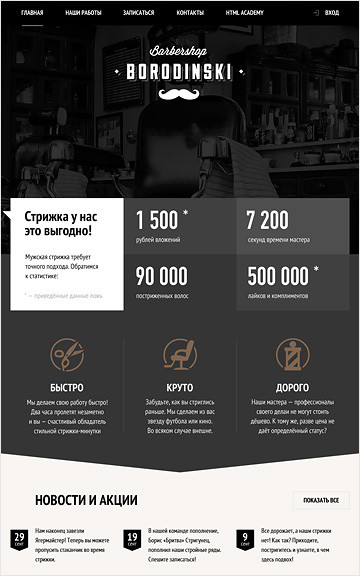
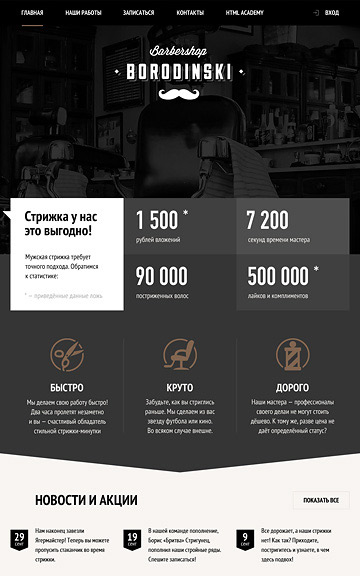
все, больше ничего не могу

Changed region(s): [[0.9778, 0.0, 1.0, 0.7812], [0.0, 0.0, 0.0306, 0.0312]]

diff --git a/Catalog.html b/Catalog.html
@@ -64,7 +64,7 @@
             <span class="filter-title">Сетка</span>
             <label class="grid"><input type="radio" name="question-one" value="Адаптивная" checked><span class="filter-items">Адаптивная</span></label>
             <label class="grid"><input type="radio" name="question-one" value="Фиксированная"><span class="filter-items">Фиксированная</span></label>
-            <label class="grid disabled"><input type="radio" name="question-one" value="Резиновая"><span class="filter-items disabled">Резиновая</span></label>
+            <label class="grid"><input type="radio" disabled name="question-one" value="Резиновая"><span class="filter-items" disabled>Резиновая</span></label>
           </div>
           <div class="features-group">
             <span class="filter-title">Особенности</span>
@@ -76,7 +76,7 @@
             <label for="news-field">Новости</label>
             <input type="checkbox" name="gallery" id="gallery-field">
             <label for="gallery-field">Галерея</label>
-            <input type="checkbox" name="basket" id="basket-field">
+            <input type="checkbox" name="basket" id="basket-field" disabled>
             <label for="basket-field">Корзина</label>
           </div>
           <button class="btn filter-btn" type="submit"><span>Показать</span></button>
@@ -98,10 +98,10 @@
             <div class="panel-browser">
               <i></i>
             </div>
-            <img src="img/catalog/img-sedona.jpg" width="360" height="576" alt="Sedona">
+            <img class="images" src="img/catalog/img-sedona.jpg" width="360" height="576" alt="Sedona">
             <div class="templates-inner">
               <a class="title-templates" href="#">Sedona</a>
-              <p>Информационный сайт для туристов</p>
+              <p>Информационный сайт для&nbsp;туристов</p>
               <a class="btn templates" href="#"><span>9 900 руб.</span></a>
             </div>
           </div>
@@ -109,7 +109,7 @@
             <div class="panel-browser">
               <i></i>
             </div>
-            <img src="img/catalog/img-pink.jpg" width="360" height="576" alt="Pink">
+            <img class="images" src="img/catalog/img-pink.jpg" width="360" height="576" alt="Pink">
             <div class="templates-inner">
               <a class="title-templates" href="#">Pink App</a>
               <p>Продуктовый лендинг приложения для iOS и Android</p>
@@ -120,10 +120,10 @@
             <div class="panel-browser">
               <i></i>
             </div>
-            <img src="img/catalog/img-barbershop.jpg" width="360" height="576" alt="Barbershop">
+            <img class="images" src="img/catalog/img-barbershop.jpg" width="360" height="576" alt="Barbershop">
             <div class="templates-inner">
               <a class="title-templates" href="#">Barbershop</a>
-              <p>Сайт салоны красоты. Для мужчин, да.</p>
+              <p>Сайт салоны красоты. Для&nbsp;мужчин, да.</p>
               <a class="btn templates" href="#"><span>9 900 руб.</span></a>
             </div>
           </div>
@@ -131,10 +131,10 @@
             <div class="panel-browser">
               <i></i>
             </div>
-            <img src="img/catalog/img-mishka.jpg" width="360" height="576" alt="Mishka">
+            <img class="images" src="img/catalog/img-mishka.jpg" width="360" height="576" alt="Mishka">
             <div class="templates-inner">
               <a class="title-templates" href="#">Mishka</a>
-              <p>Интернет-магазин вязаных игрушек</p>
+              <p>Интернет-магазин вязаных&nbsp;игрушек</p>
               <a class="btn templates" href="#"><span>9 900 руб.</span></a>
             </div>
           </div>
@@ -142,7 +142,7 @@
             <div class="panel-browser">
               <i></i>
             </div>
-            <img src="img/catalog/img-aplus.jpg" width="360" height="576" alt="A plus">
+            <img class="images" src="img/catalog/img-aplus.jpg" width="360" height="576" alt="A plus">
             <div class="templates-inner">
               <a class="title-templates" href="#">A plus</a>
               <p>Лендинг курсов повышения квалификации</p>
@@ -153,7 +153,7 @@
             <div class="panel-browser">
               <i></i>
             </div>
-            <img src="img/catalog/img-kvast.jpg" width="360" height="576" alt="Кваст">
+            <img class="images" src="img/catalog/img-kvast.jpg" width="360" height="576" alt="Кваст">
             <div class="templates-inner">
               <a class="title-templates" href="#">Кваст</a>
               <p>Промо-сайт производителя крафтового кваса</p>
@@ -200,9 +200,9 @@
     <button class="modal-content-close" type="button" title="Закрыть">Закрыть</button>
     <h2 class="modal-content-title">Напишите нам</h2>
     <form class="feedback" action="#" method="get">
-      <label class="surname-user"><span class="title-form">Ваше имя</span><input class="icon-surname-user" type="text" name="surname" placeholder="Представьтесь, пожалуйста" required></label>
-      <label class="mail-user"><span class="title-form">Ваш e-mail:</span><input class="icon-mail-user" type="text" name="mail" placeholder="Для отправки ответа" required></label>
-      <label class="message-user"><span class="title-form">Текст письма:</span><input class="icon-message-user" type="text" name="message" placeholder="В свободной форме" required></label>
+      <label class="surname-user"><span class="title-form">Ваше имя</span><input class="icon-surname-user" type="text" name="surname" placeholder="Представьтесь, пожалуйста"></label>
+      <label class="mail-user"><span class="title-form">Ваш e-mail:</span><input class="icon-mail-user" type="text" name="mail" placeholder="Для отправки ответа"></label>
+      <label class="message-user"><span class="title-form">Текст письма:</span><textarea class="icon-message-user" placeholder="В свободной форме"></textarea></label>
       <button class="btn send" type="submit"><span>Отправить</span></button>
     </form>
   </div>

diff --git a/css/style.css b/css/style.css
@@ -234,6 +234,7 @@ h2{
 .description{
   margin-top: 26px;
   margin-bottom: 40px;
+  width: 420px
 }
 
 .btn.more{
@@ -304,6 +305,7 @@ h2{
 .services p{
   margin-top: 20px;
   margin-bottom: 30px;
+  width: 250px;
 }
 
 .btn{
@@ -462,8 +464,8 @@ font-weight: bold;
 }
 
 .logos-list{
-border-bottom: 2px solid #eeeeee;
-margin-bottom: 80px;
+  border-bottom: 2px solid #eeeeee;
+  margin-bottom: 78px;
 }
 
 .logos-item img{
@@ -471,6 +473,7 @@ margin-bottom: 80px;
 }
 
 .logos-item{
+  position: relative;
   float: left;
   width: 280px;
   margin-right: 20px;
@@ -496,6 +499,16 @@ margin-bottom: 80px;
 
 .logo:active{
   opacity: .3;
+}
+
+.vertical-lines{
+  display: inline-block;
+  position: absolute;
+  top: 70px;
+  left: 280px;
+  background-color: #eeeeee;
+  width: 2px;
+  height: 50px;
 }
 
 .wrap{
@@ -750,7 +763,8 @@ label span{
   color: #283136;
 }
 
-.filter-items:disabled{
+input[type="radio"]:disabled + .filter-items,
+input[type="checkbox"]:disabled + label{
   opacity: .1;
 }
 
@@ -789,10 +803,6 @@ input[type="radio"]:checked:hover ~ .filter-items::after{
 
 .grid:hover .filter-items::before {
   opacity: 1;
-}
-
-.grid:disabled .filter-items::before {
-  opacity: .1;
 }
 
 .grid:hover .filter-items {
@@ -891,7 +901,7 @@ input[type="checkbox"]:checked + label:hover::after{
 
 .triangle-sort-down{
   position: absolute;
-  top: 5px;
+  top: 7px;
   right: -63px;
   border: 5px solid transparent;
   border-top: 9px solid #000;
@@ -899,7 +909,7 @@ input[type="checkbox"]:checked + label:hover::after{
 
 .triangle-sort-up{
   position: absolute;
-  top: 1px;
+  top: 2px;
   right: -90px;
   border: 5px solid transparent;
   border-bottom: 9px solid #000;
@@ -927,7 +937,7 @@ input[type="checkbox"]:checked + label:hover::after{
   position: relative;
   margin-left: 40px;
   width: 360px;
-  margin-bottom: 36px;
+  margin-bottom: 38px;
   margin-top: 40px;
 }
 
@@ -984,13 +994,18 @@ input[type="checkbox"]:checked + label:hover::after{
   padding-top: 35px;
 }
 
-.templates-inner:hover{
-  display: block;
-}
-
 .templates-inner a{
   text-transform: uppercase;
   text-decoration: none;
+}
+
+.title-templates{
+  font-size: 18px;
+  line-height: 30px;
+}
+
+.images{
+  border: 1px solid #e5e5e5;
 }
 
 .templates-inner .title-templates{
@@ -1005,6 +1020,10 @@ input[type="checkbox"]:checked + label:hover::after{
   display: block;
 }
 
+.templates-item:hover .images{
+  border: 0px;
+}
+
 .templates-item:hover .panel-browser{
   opacity: 1;
 }
@@ -1012,6 +1031,9 @@ input[type="checkbox"]:checked + label:hover::after{
 .templates-inner p{
   text-align: center;
   color: #666666;
+  margin-bottom: 27px;
+  font-size: 16px;
+  line-height: 18px;
 }
 
 .btn.templates{
@@ -1041,7 +1063,7 @@ input[type="checkbox"]:checked + label:hover::after{
 
 .pagination{
   float: left;
-  padding-top: 25px;
+  padding-top: 23px;
   padding-bottom: 60px;
   margin-left: 40px;
 }
@@ -1210,13 +1232,17 @@ input[type="checkbox"]:checked + label:hover::after{
    opacity: 1;
   }
 
-.feedback .message-user{
+.feedback .icon-message-user{
   margin-bottom: 45px;
 }
 
 .feedback input[class="icon-message-user"]{
   width: 760px;
   height: 118px;
+}
+
+.message-user{
+  width: 760px;
 }
 
 .surname-user{

diff --git a/index.html b/index.html
@@ -51,21 +51,21 @@
           <div class="slide">
             <div class="slide-text">
               <b class="slides-title">Долго, дорого, скрупулезно.</b>
-              <p class="description"> Математически выверенный дизайн<br>для вашего сайта или мобильного приложения.</p>
+              <p class="description"> Математически выверенный дизайн для&nbsp;вашего&nbsp;сайта&nbsp;или мобильного приложения.</p>
               <a class="btn more" href="#"><span>Узнать больше</span></a>
             </div>
           </div>
           <div class="slide">
             <div class="slide-text">
               <b class="slides-title">Любим математику как никто другой</b>
-              <p class="description"> Никакого креатива, только математические формулы<br>для расчета идеальных пропорций.</p>
+              <p class="description"> Никакого креатива, только математические формулы для расчета идеальных пропорций.</p>
               <a class="btn more" href="#"><span>Узнать больше</span></a>
             </div>
           </div>
           <div class="slide">
             <div class="slide-text">
               <b class="slides-title">Только ночь, только хардкор</b>
-              <p class="description"> Работать днем, как все? Мы против этого.<br>Ближе к полуночи работа только начинается.</p>
+              <p class="description"> Работать днем, как все? Мы против этого. Ближе&nbsp;к&nbsp;полуночи работа только начинается.</p>
               <a class="btn more" href="#"><span>Узнать больше</span></a>
             </div>
           </div>
@@ -124,16 +124,19 @@
     </div>
     <section class="logos-list clearfix">
       <div class="logos-item">
+        <div class="vertical-lines"></div>
         <a href="index.html">
           <img src="img/index/logo-1.png" width="260" height="180" alt="html academy">
         </a>
       </div>
       <div class="logos-item">
+        <div class="vertical-lines"></div>
         <a href="#">
           <img src="img/index/logo-2.png" width="260" height="180" alt="Barbershop Borodinski">
         </a>
       </div>
       <div class="logos-item">
+        <div class="vertical-lines"></div>
         <a href="#">
           <img src="img/index/logo-3.png" width="260" height="180" alt="pink">
         </a>
